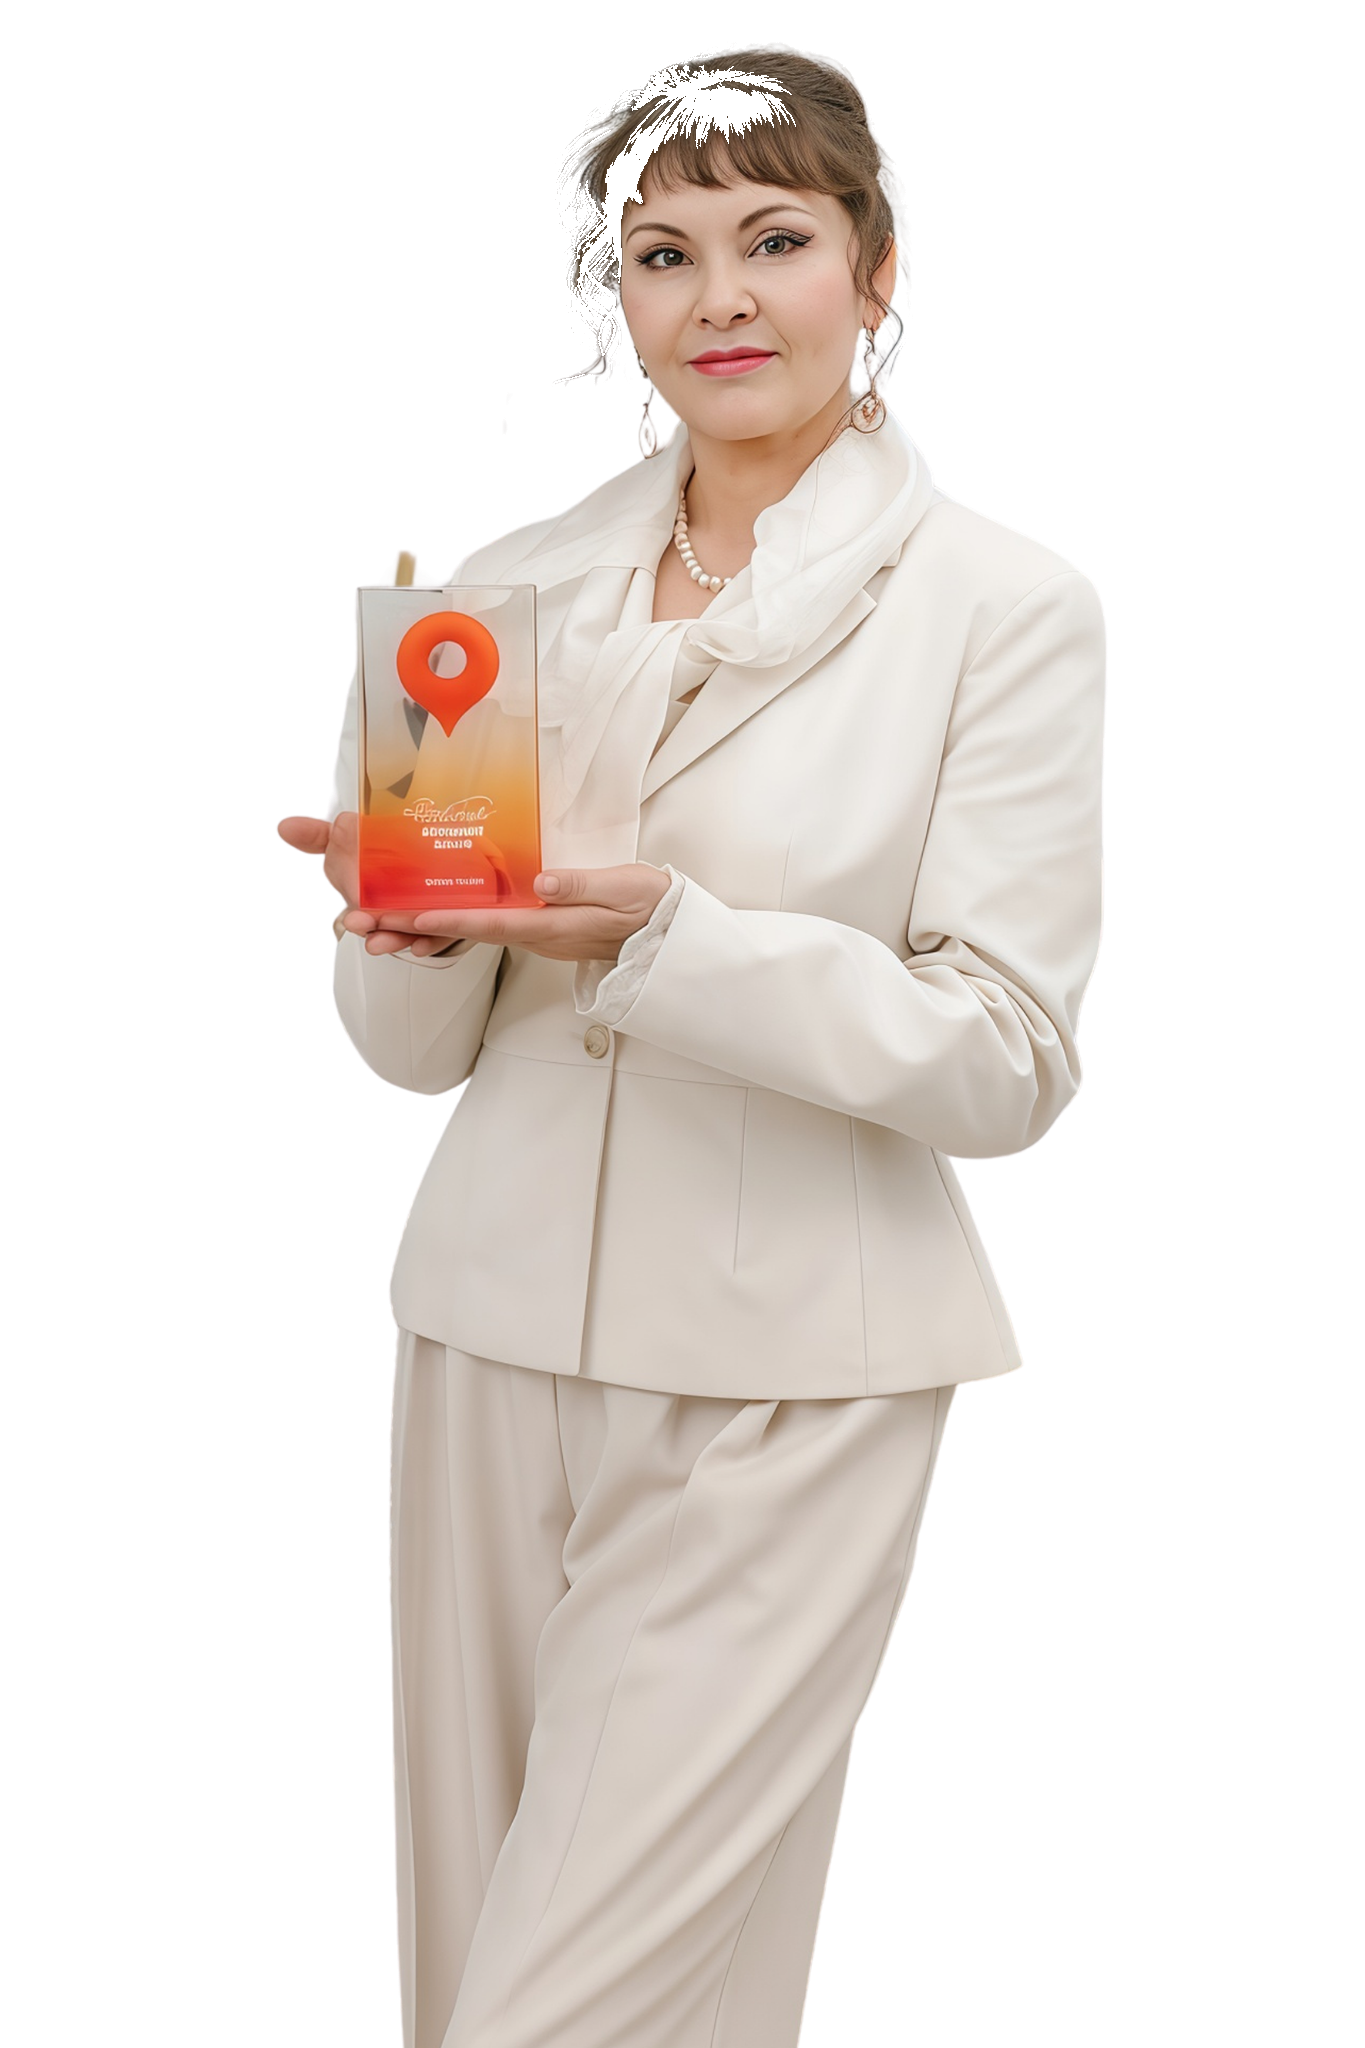
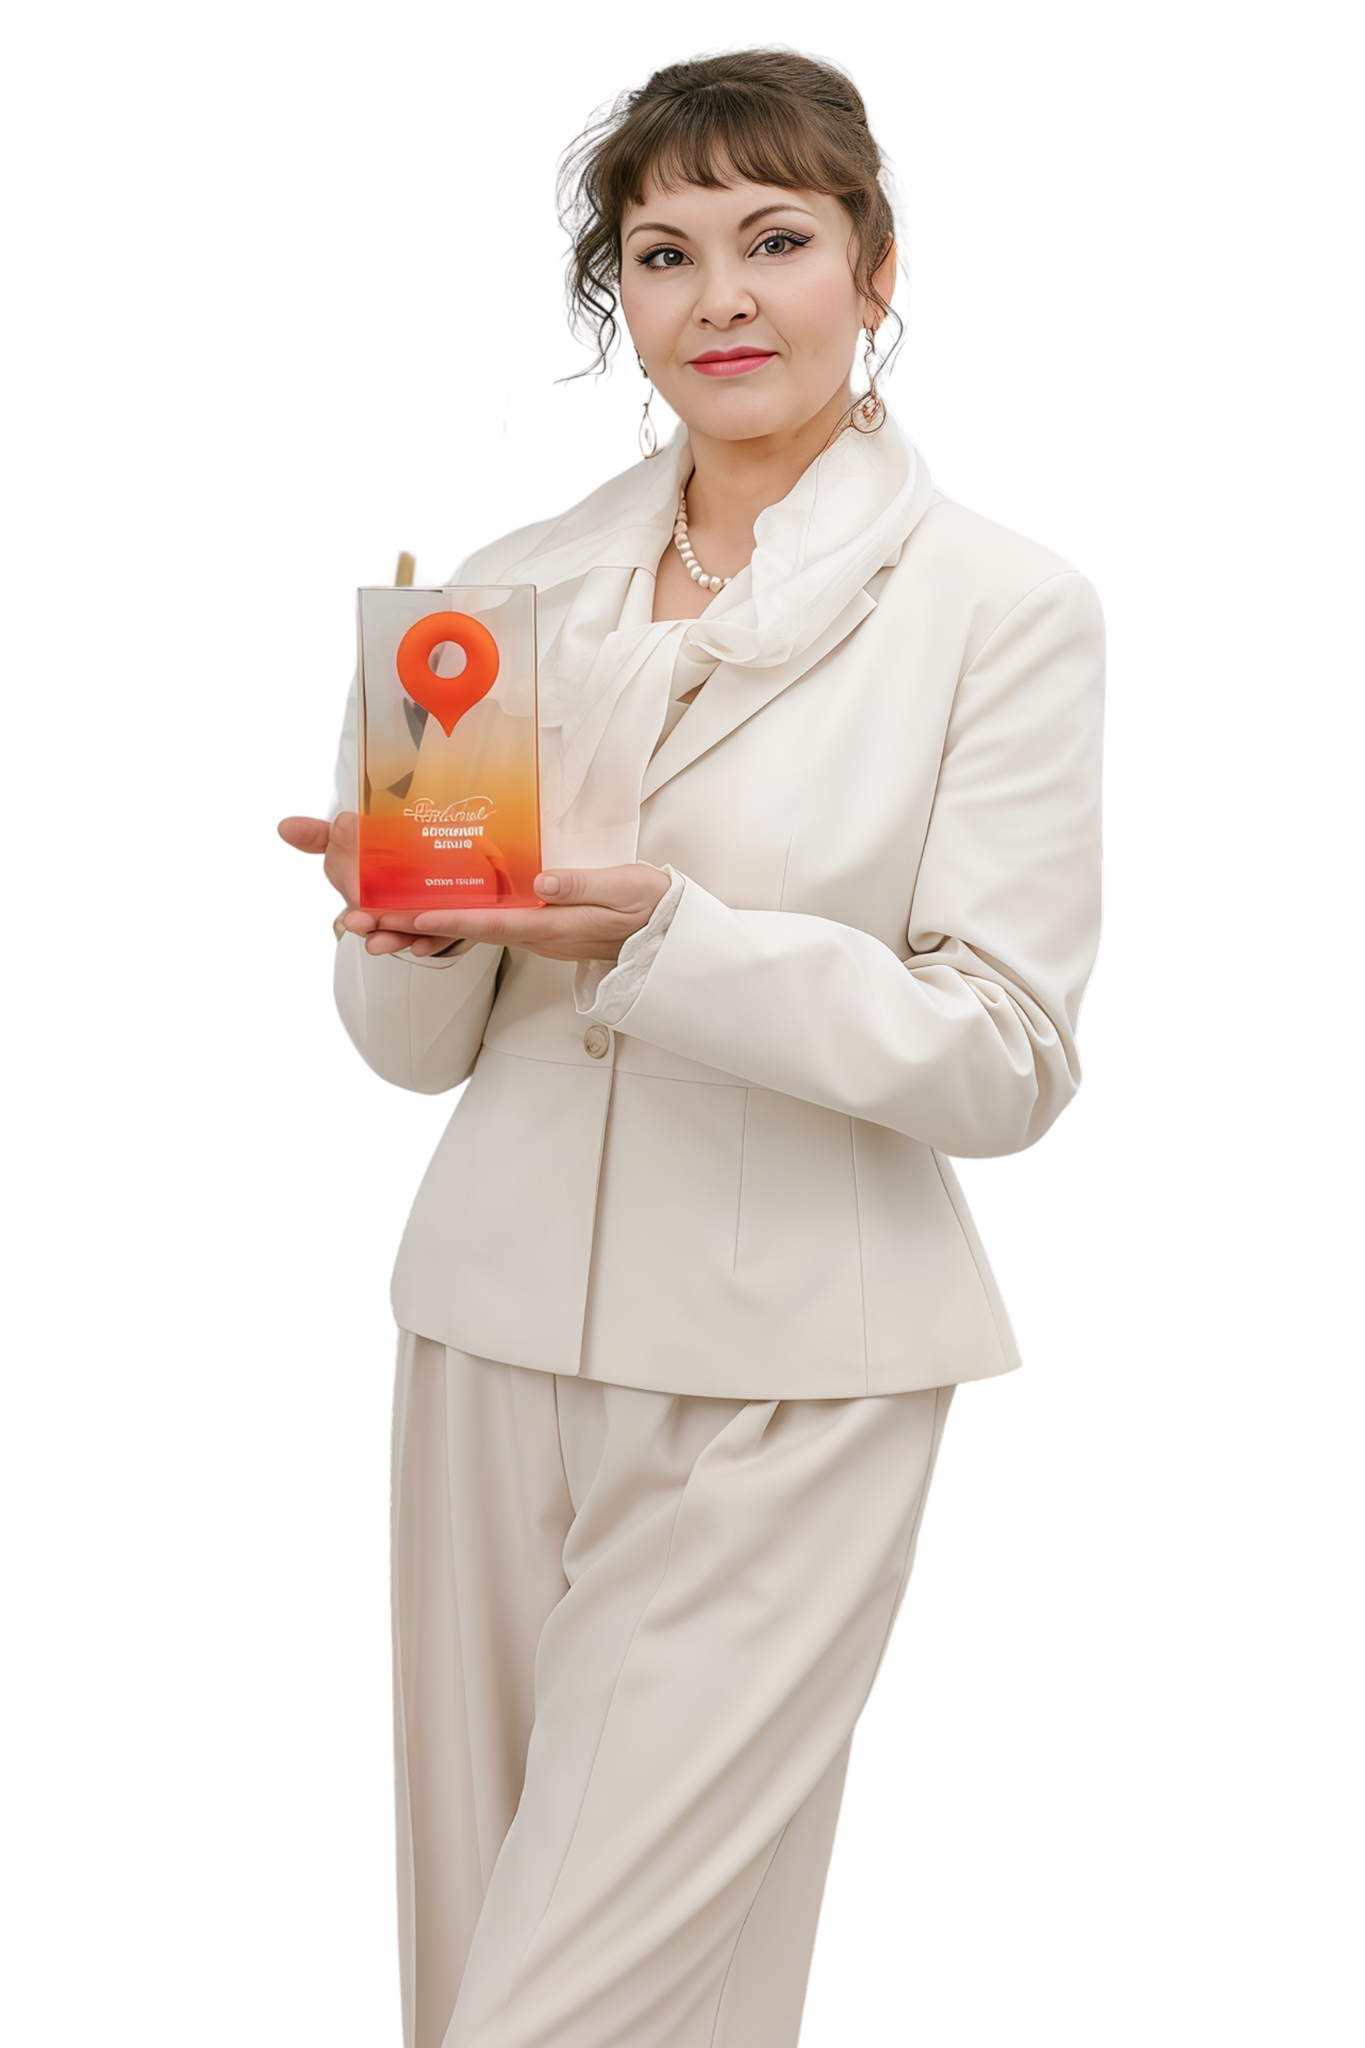
Replace crane with origami heart; refresh ellina-nobg from original

Changed region(s): [[0.4, 0.0312, 0.5846, 0.1875]]

diff --git a/index.html b/index.html
@@ -413,11 +413,11 @@ footer .fcontact b{color:#fff;}
   .prog-s.t .prow{margin-top:16px;}
   .prog-s.t .price{font-size:24px;}
   /* журавль — прилипает к Валерии слева снизу */
-  .prog-s.t > img[src*="crane"]{
+  .prog-s.t > img[src*="heart"]{
     display:block !important;
     position:absolute !important;
-    width:110px !important;
-    bottom:20px;
+    width:90px !important;
+    bottom:16px;
     left:10px;
     opacity:.8;
   }
@@ -644,7 +644,7 @@ footer .fcontact b{color:#fff;}
           <div class="price">14 900 ₽<small>за весь курс</small></div>
           <button class="btn btn-or btn-sm" onclick="prefill('Управление пациентским опытом и развитие клиники')">Записаться</button>
         </div>
-        <img src="assets/origami/crane-blue.png" alt="" aria-hidden="true" style="position:absolute;width:260px;bottom:160px;left:10px;transform:rotate(5deg);opacity:.9;z-index:0;pointer-events:none;mix-blend-mode:multiply;">
+        <img src="assets/heart.png" alt="" aria-hidden="true" style="position:absolute;width:200px;bottom:140px;left:10px;transform:rotate(-8deg);opacity:.85;z-index:0;pointer-events:none;">
         <img src="assets/ellina-nobg.png" alt="" aria-hidden="true" class="speaker-photo">
       </article>
 